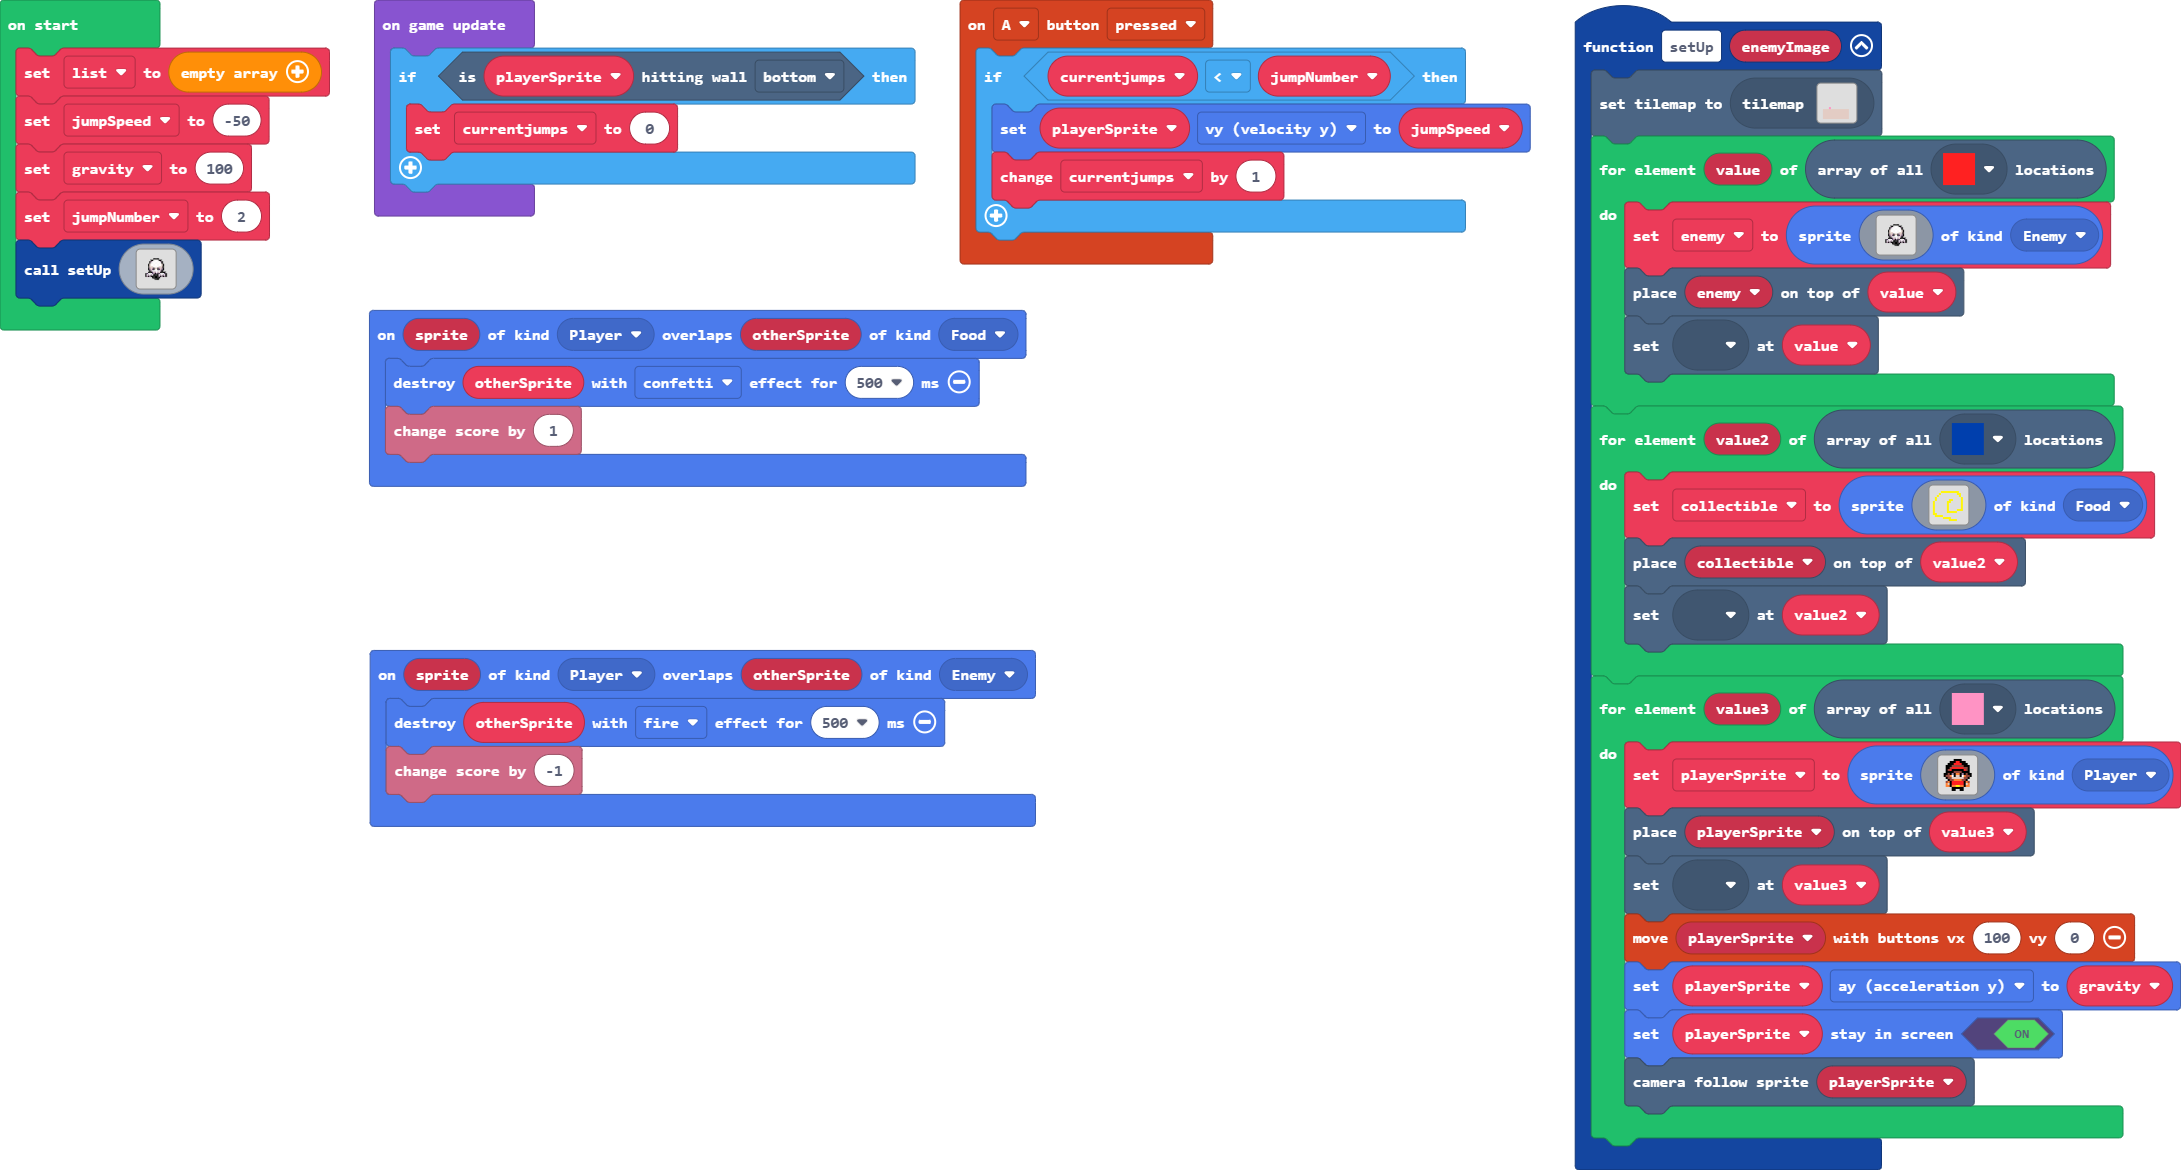
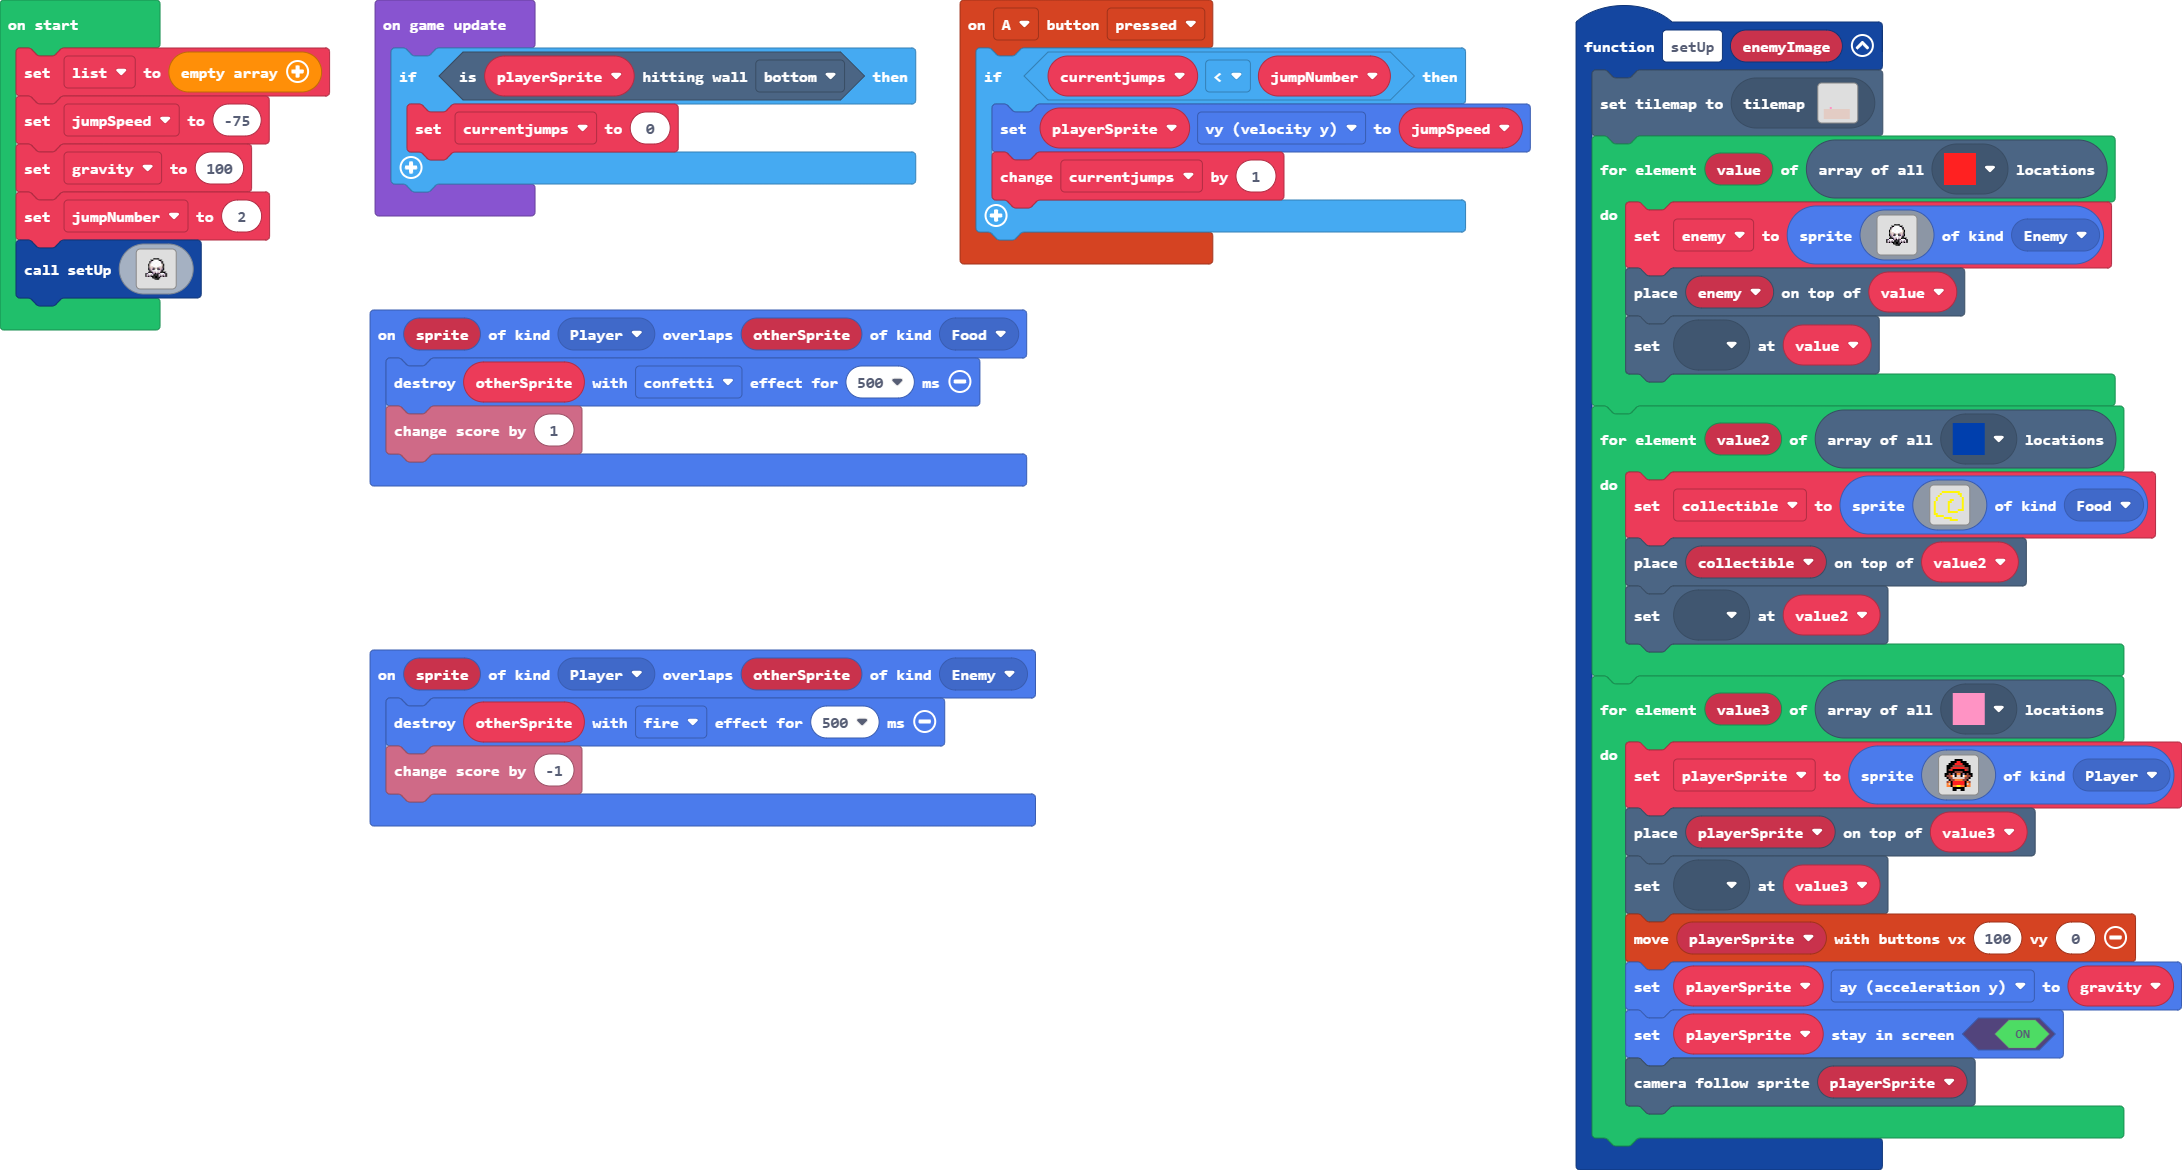
jumping and interactions updated and created

diff --git a/main.ts b/main.ts
@@ -42,7 +42,7 @@ let jumpNumber = 0
 let gravity = 0
 let jumpSpeed = 0
 let list: number[] = []
-jumpSpeed = -50
+jumpSpeed = -75
 gravity = 100
 jumpNumber = 2
 setUp(assets.image`enemy`)
